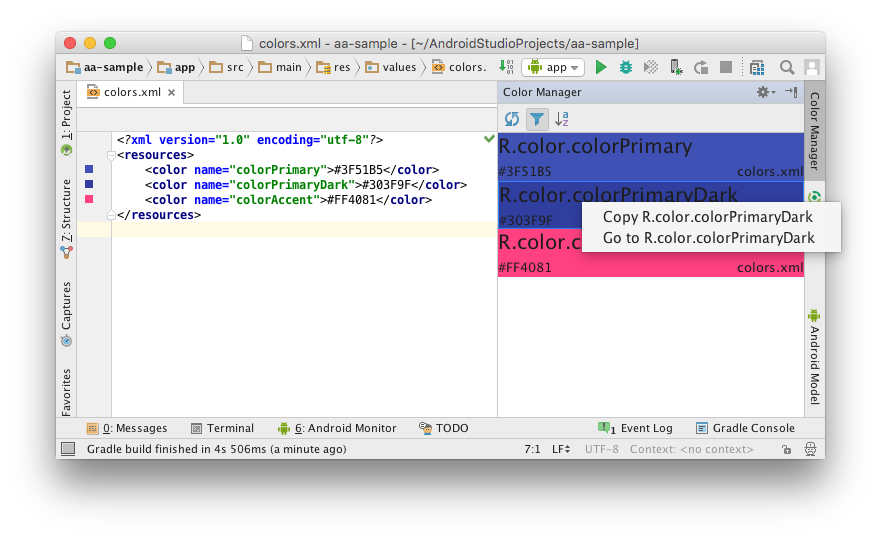
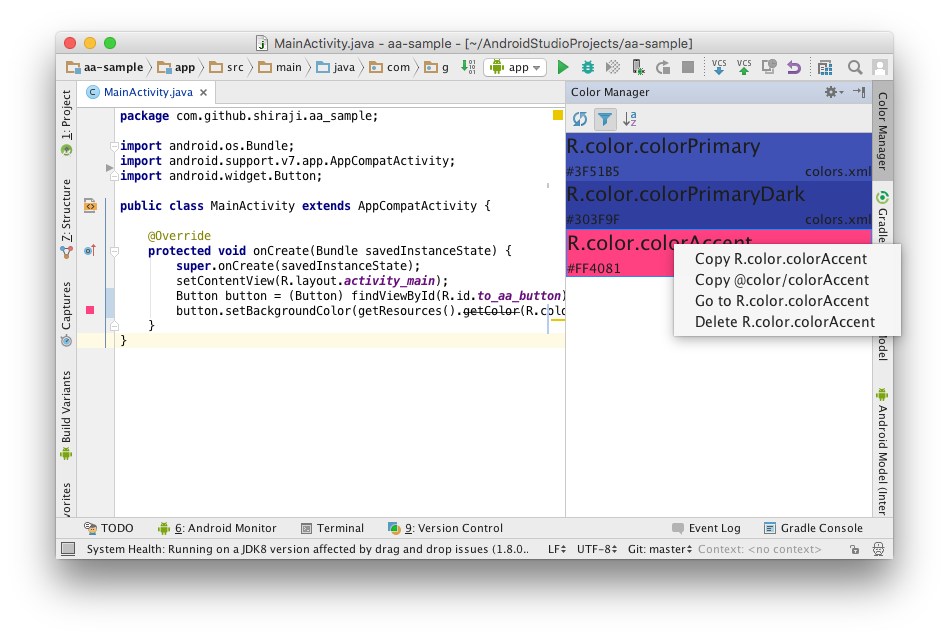
Add delete section and update right click images

Changed region(s): [[0.0306, 0.0594, 0.9807, 0.9202]]

diff --git a/README.md b/README.md
@@ -14,15 +14,21 @@ Right click a color listed on the tool window
 
 ![right_click](website/images/right_click.png)
 
-Click "Copy R.color.whatever_color_name"
+Click "Copy R.color.whatever_color_name" or "Copy @color/whatever_color_name"
 
-You can also copy color name by cmd+c (or ctrl+c) after selecting color panel
+You can also copy color name ("R.color.whatever_color_name" style) by cmd+c (or ctrl+c) after selecting the color panel
 
-## Move to color
+## Move to the color definition
 
 Same as Copy. Right click and click "Go to R.color.whatever_color_name"
 
 Or just double click an item
+
+## Delete a color
+
+Same as Copy and move. Right click and click "Delete R.color.whatever_color_name"
+
+It will show confirmation dialog before deleting the color tag. 
 
 ## Search
 
